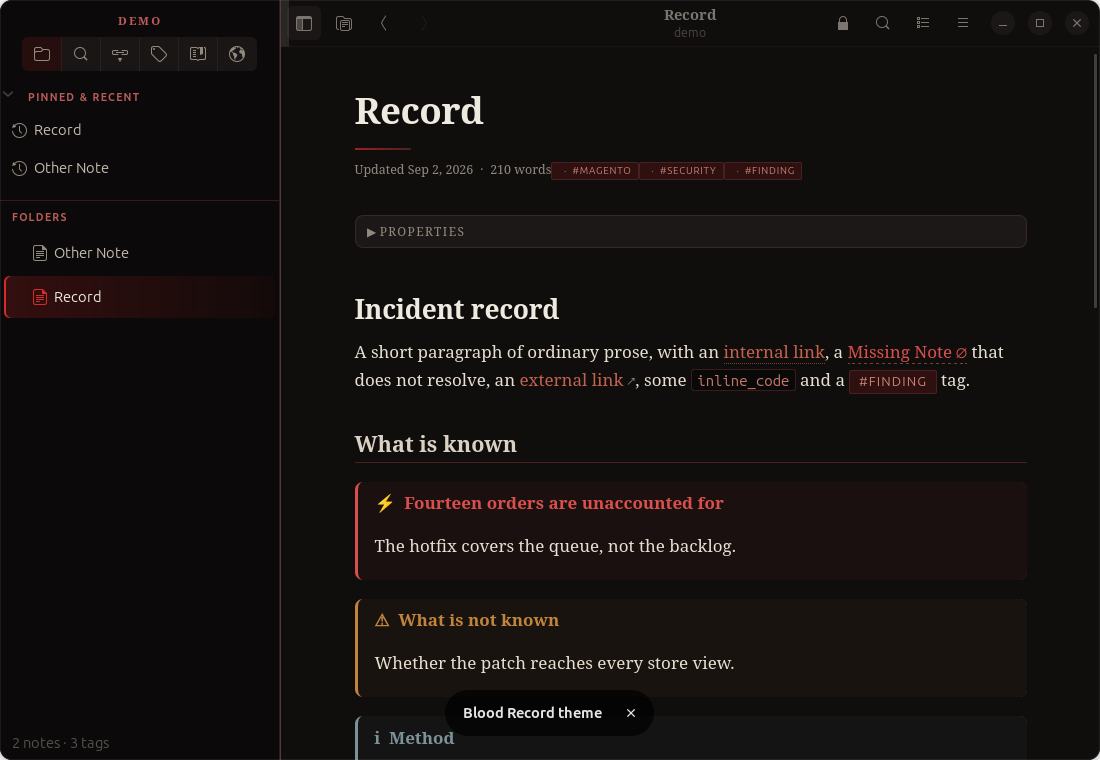
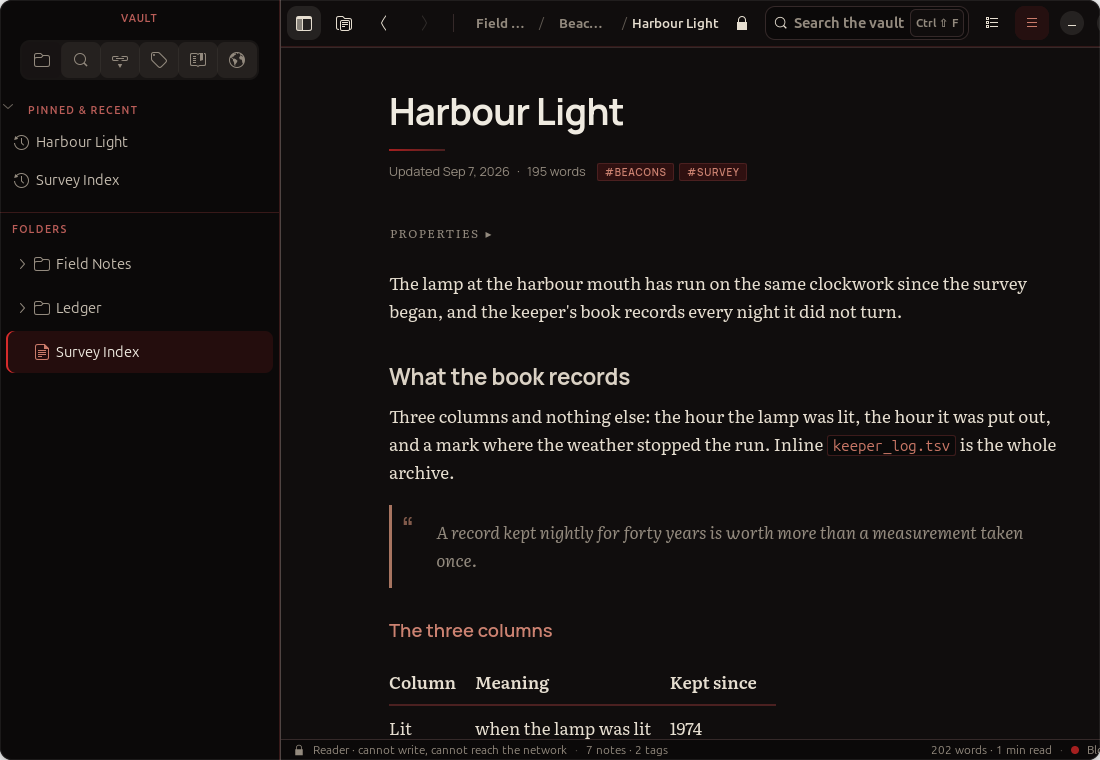
Take the theme's own accent, and keep a squeezed path readable
The local graph drew its accent from a colour written into the file,
which was the old identity's gold and stayed gold in all fourteen
themes. It asks the style for the accent now.

A breadcrumb step with no minimum width shrank to a bare ellipsis when
the header ran out of room, so a path of folders said only that there
had been folders. Each step keeps enough to be read.

The two screenshots in the README show what the app looks like now.

diff --git a/src/solander/gui/chrome.py b/src/solander/gui/chrome.py
@@ -13,6 +13,9 @@ from gi.repository import Gtk
 SEPARATOR = "/"
 """What sits between two steps of a path. The vault's own separator, not an arrow."""
 
+STEP_FLOOR = 6
+"""How much of a folder name stays readable when the header runs out of room."""
+
 
 class CrumbPath(Gtk.Box):
     """Where the open note lives: its folders quiet, its own name in ink.
@@ -71,6 +74,10 @@ class CrumbPath(Gtk.Box):
         # The leaf is the answer to "which note is this"; an ancestor is context,
         # so a header with no room shortens the folders and keeps the name whole.
         label = Gtk.Label(label=text, ellipsize=3 if style == "crumb-step" else 0)
+        if style == "crumb-step":
+            # With no floor a squeezed step shrinks to a bare ellipsis, and a path
+            # of those says only that there were folders, not which.
+            label.set_width_chars(STEP_FLOOR)
         label.add_css_class(style)
         if style == "crumb-sep":
             label.set_margin_start(5)

diff --git a/src/solander/gui/localgraph.py b/src/solander/gui/localgraph.py
@@ -6,7 +6,7 @@ import weakref
 import gi
 
 gi.require_version("Gtk", "4.0")
-from gi.repository import Gdk, Gtk, Pango, PangoCairo
+from gi.repository import Gtk, Pango, PangoCairo
 
 NODE_RADIUS = 7.0
 CENTER_RADIUS = 10.0
@@ -68,8 +68,10 @@ class LocalGraphView:
             return
         style = area.get_style_context()
         fg = style.get_color()
-        accent = Gdk.RGBA()
-        if not accent.parse("#d0a44e"):
+        # The theme's own accent, looked up rather than written down: this held
+        # the old identity's gold and stayed gold in all fourteen themes.
+        found, accent = style.lookup_color("accent_color")
+        if not found:
             accent = fg
         center_x, center_y = width / 2, height / 2
         count = len(self.neighbors)

diff --git a/README.md b/README.md
@@ -9,7 +9,7 @@ A solander is the clamshell box an archive keeps its documents in. That's the jo
 
 > This project isn't affiliated with or endorsed by Obsidian.md / Dynalist Inc. "Obsidian" here names the vault format the reader understands.
 
-![Solander in the Atelier theme](docs/images/atelier.png)
+![Solander in the Stone theme](docs/images/stone.png)
 
 ## The name
 
